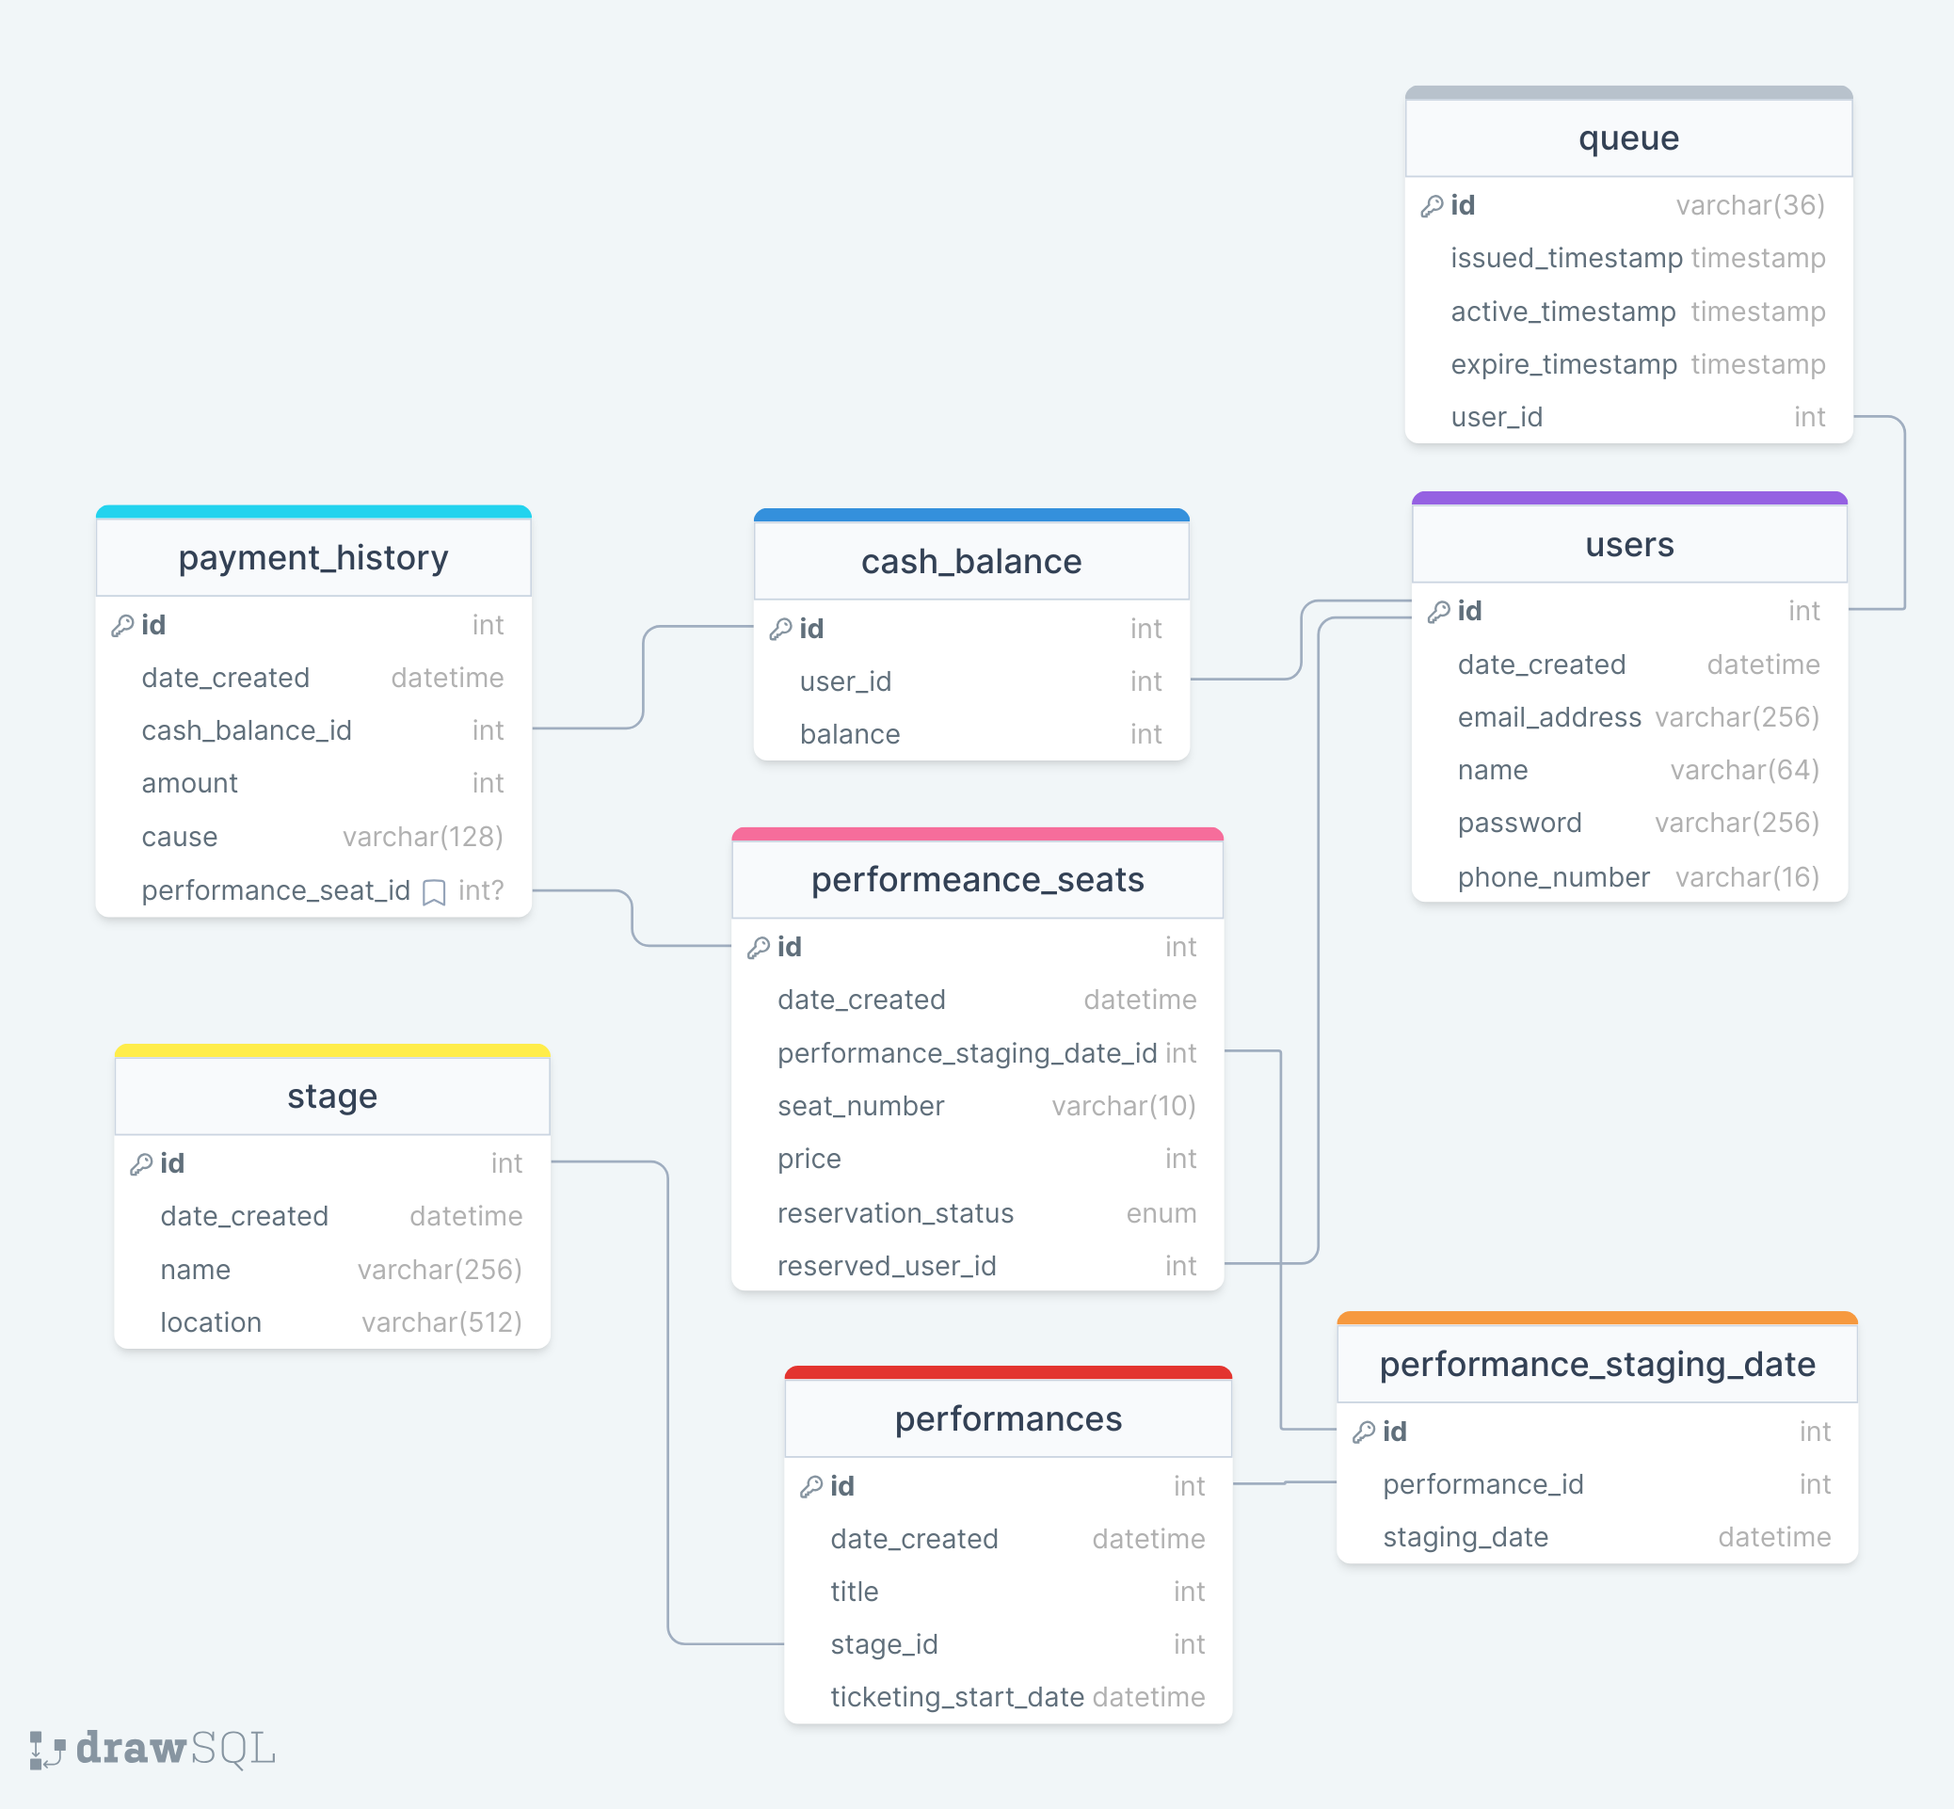
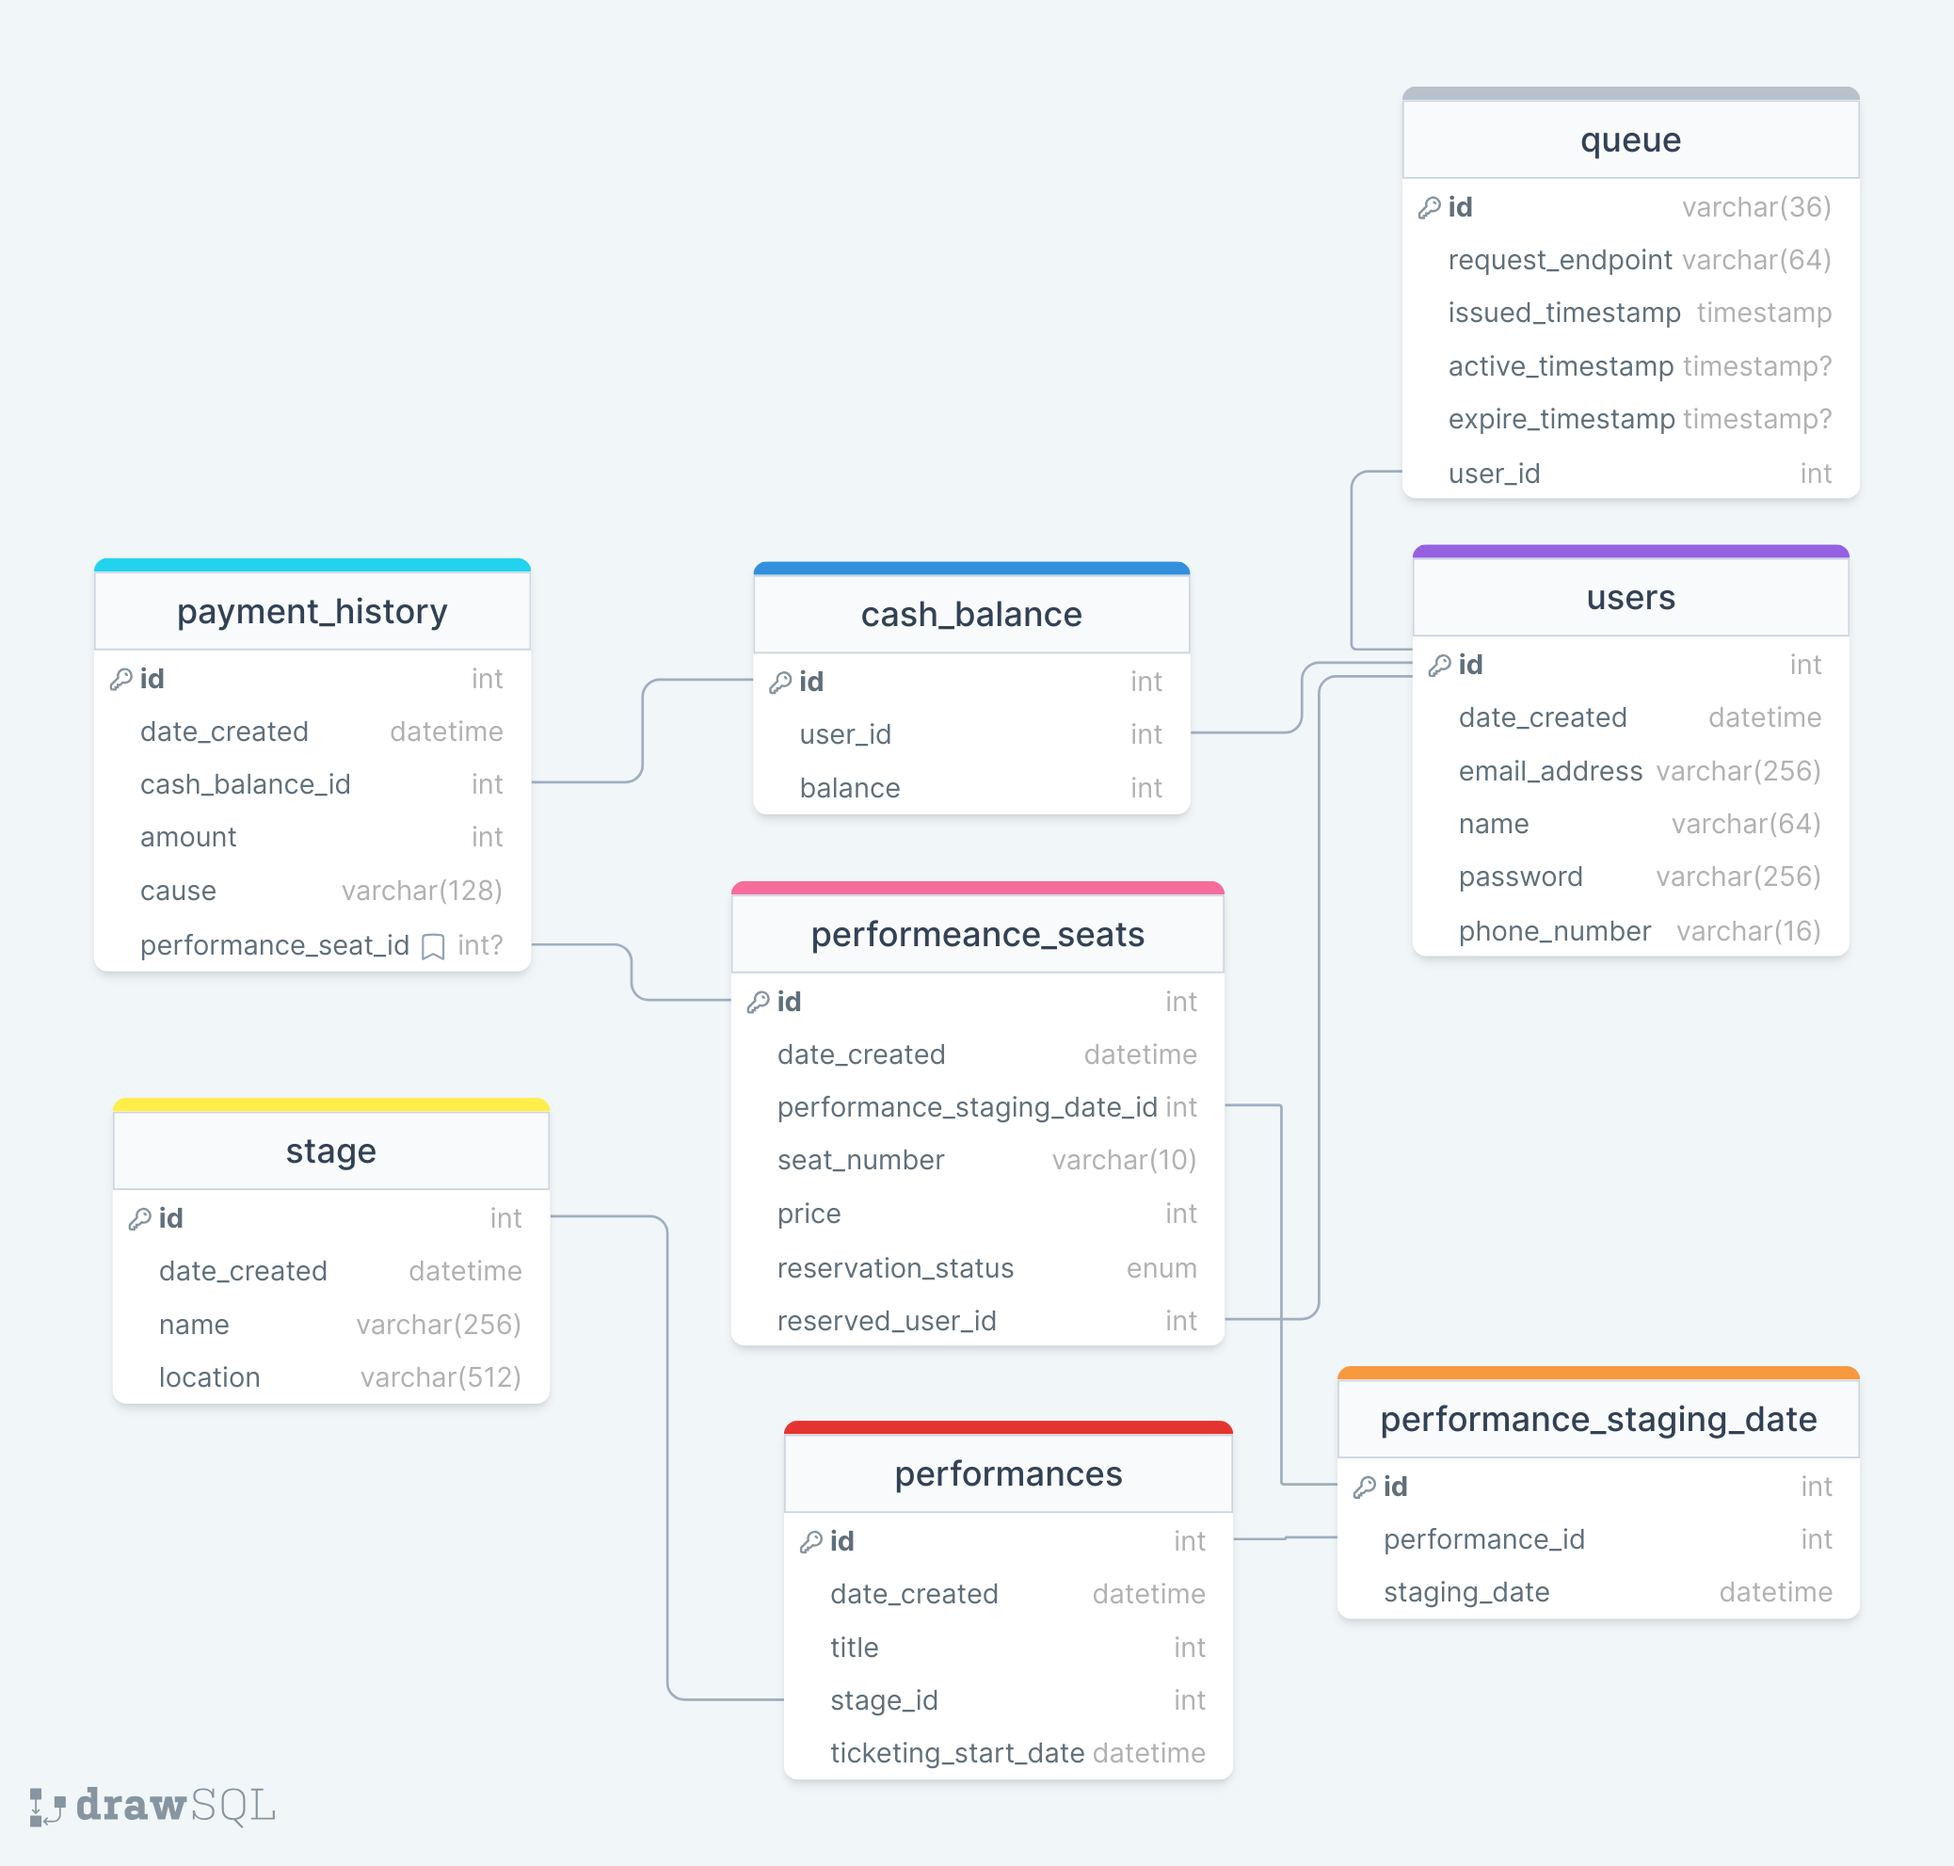
docs: README 업데이트

diff --git a/README.md b/README.md
@@ -11,6 +11,35 @@
 
 ## 시나리오 요구사항 분석
 
+### 시나리오 요약
+
+1. `콘서트 예약 서비스` 구현
+1. 대기열 시스템 구축 필요
+1. 예약 서비스는 작업 가능한 유저만 수행 가능
+1. 좌석 예약 시 임시 배정으로 처리하여 다른 유저가 일정 시간 동안 접근할 수 없도록 설정, 배정 시간 내 결제 미완료 시 임시 배정 해제
+1. 좌석 결제 완료 시 좌석 소유권 유저에게 정식 배정 및 대기열 토큰 만료 처리
+1. 각 기능 및 제약사항에 대한 단위 테스트 작성
+1. 다수 인스턴스 환경에서도 문제 없는 기능성 유지
+1. 동시성 이슈 고려
+
+### 구현 방식
+
+ver 1
+
+- 현단계에서는 우선 Redis를 의도적으로 배제하고 RDBMS만으로 구현, 차후 Message Broker 도입 예정
+- 유저가 로그인한 후, 에매 관련 endpoint로 요청 시도 시 대기열에 들어가는 흐름을 재현하기 위해 대기열 토큰을 발급하는 별도 endpoint를 작성하는 기존 요구사항을 유저 로그인(유저 토큰 발급) → 예매 관련 endpoint에 요청 시도 시 서버 내부에서 유저를 대기열에 등록하고 response로 대기열 데이터 전송하는 플로우로 어레인지
+- 대기 순서가 올 때까지 client에서 polling을 통해 지속적으로 endpoint에 요청을 보내는 것으로 가정하고, 대기중인 유저에 대해 response로 대기열 데이터 전송 (현재 대기 순서, 대기열 고유 토큰)
+- 같은 유저는 동시에 한 번만 대기열에 등록될 수 있음 (다른 endpoint로 중복 요청 불가)
+- 예매 진행 시 공연 목록 조회 → 좌석 목록 조회 → 좌석 선점 요청 → 좌석 결제 순으로 진행하는 것을 정상 요청으로 간주하며, 이를 검증하기 위해 첫단계 이후의 요청부터는 전단계의 대기열 토큰을 확인함
+- 토큰 유효성 검증 및 만료 조건
+  - 각 토큰은 활성화(대기 순서 도래) 후 5분간만 유효함
+  - 토큰 발급 시 발급 시간을 저장하고, 활성화 후 활성화 시간 및 만료 시간 저장
+  - 예매 진행 시 다음 단계 요청에서 기존에 발급 받은 대기열 토큰을 확인하고 만료, 최종 단계일 시에는 해당 단계에서 만료
+  - 페이지, 브라우저 이탈 등의 경우는 client 측에서 감지하고 명시적으로 대기열 토큰 만료 endpoint로 요청을 보내야 함
+  - Application의 로직으로 처리되지 못한 무효 토큰은 일정 시간 간격으로 작동되는 DB의 스케줄러로 삭제
+  - 토큰 유효성 검증 플로우
+    <img src="./docs/assets/flow_chart-ticketing_performances_process_queue.png" alt="공연 예매 서비스 이용 시 유저 플로우에 따른 시퀀스" width="80%" />
+
 ### 시퀀스 다이어그램
 
 - 공연 예매 서비스 이용 시 유저 플로우에 따른 시퀀스
@@ -656,3 +685,12 @@
 </details>
 
 ---
+
+## 기술 스택
+
+- `Backend`
+  NestJS, Typescript, TypeORM, Jest, JWT
+- `Data`
+  MySQL
+- `Infra`
+  docker, docker-compose
